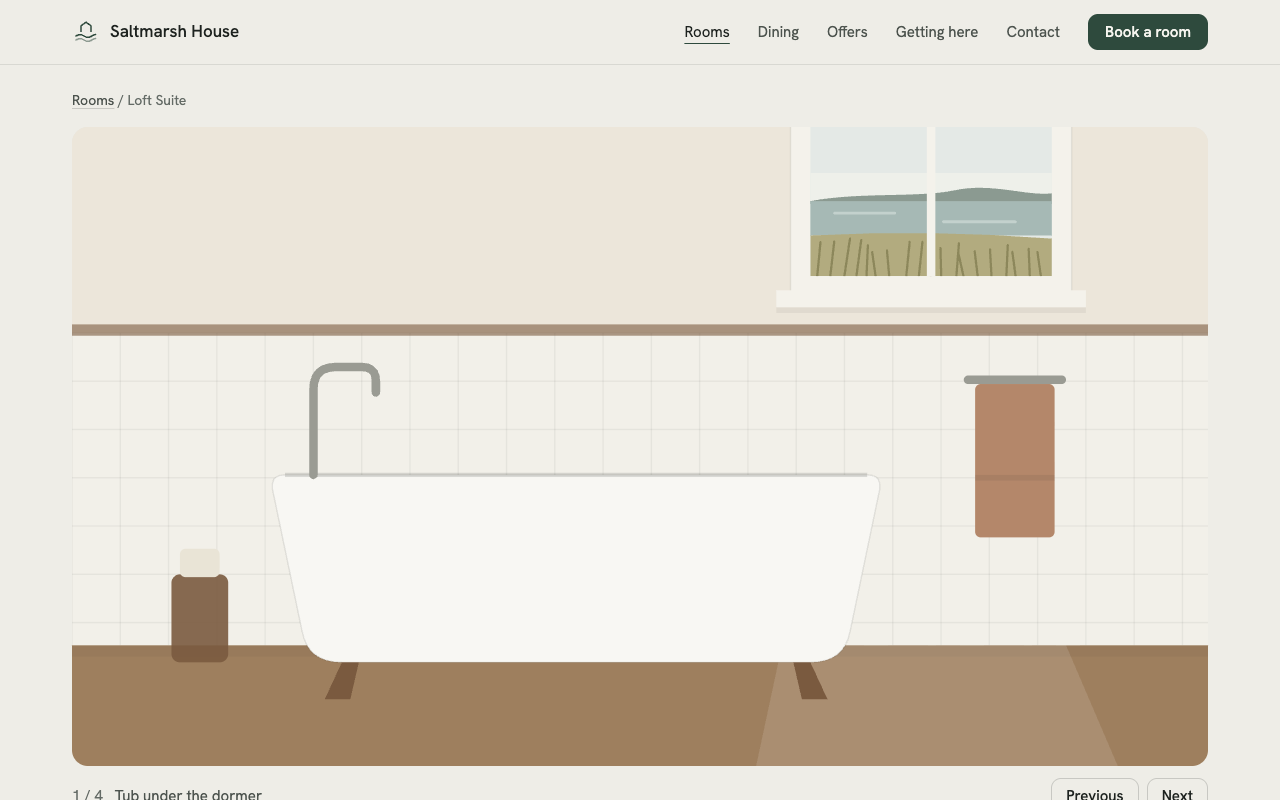
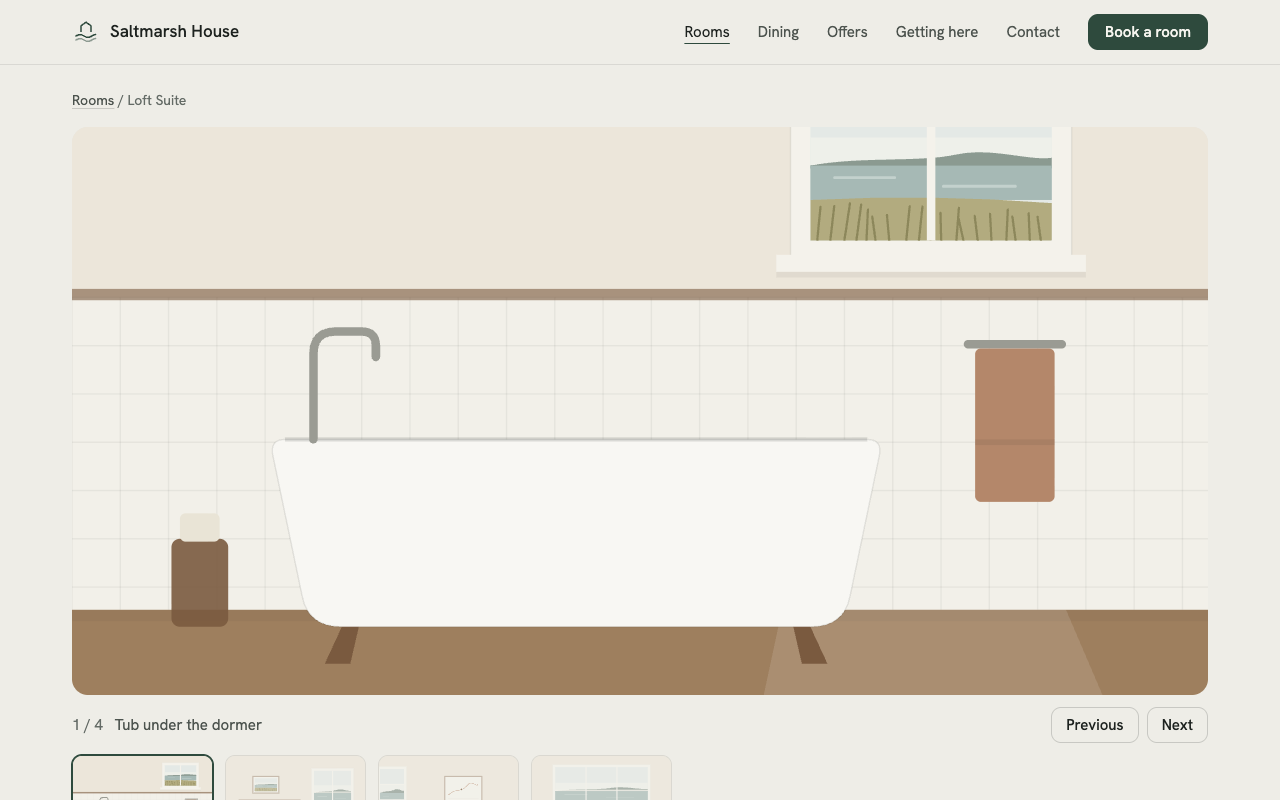
Unslop pass: no eyebrow labels or hover scale, varied room cards, key tag only for rooms, opaque header

diff --git a/src/data/site.ts b/src/data/site.ts
@@ -70,7 +70,7 @@ export const site = {
   home: {
     headline: "A quiet house on the tide line",
     intro:
-      "Fourteen rooms in an 1890s boarding house on the Calder marsh. Wide windows, cotton sheets, a dining room that keeps the fire going from October, and a dock where the tide does most of the scheduling.",
+      "Fourteen rooms in an 1890s boarding house on the Calder marsh, with wide windows over the reeds, a dining room with a wood grill, and a dock where the tide does the scheduling.",
     arrival: {
       title: "Arriving",
       text: [

diff --git a/src/styles/global.css b/src/styles/global.css
@@ -111,12 +111,6 @@ p {
   padding: clamp(64px, 9vw, 112px) 0;
 }
 
-.label {
-  font-size: 14px;
-  color: var(--muted);
-  margin-bottom: 12px;
-}
-
 .lede {
   font-size: clamp(18px, 1.6vw, 20px);
   line-height: 1.55;

diff --git a/UNSLOP.md b/UNSLOP.md
@@ -1,0 +1,39 @@
+# Unslop pass
+
+Done with the unslop skill (unslop by Damir Sokolovsky, @heydamir, CC BY 4.0) on November 25, 2026.
+
+## Audit
+
+Light slop: built with its own palette, type and drawn scenes, so this was polish mode. Signs found:
+
+- `hover:scale` on every room card picture (`RoomCard.astro`)
+- Small muted eyebrow labels stacked above section headings on the home page ("Dining", "Getting here") (`index.astro`, `.label` in `global.css`)
+- Every room card opened on the same bed view, so the rooms grid read as equal repeated cards (`site.ts` gallery order)
+- The key tag (our signature) reused as a badge for offer codes, diluting it (`offers.astro`)
+- A "Newsletter" footer link that only led to the contact page, a feature the site doesn't have (`site.ts`)
+- Hero intro running four long lines with a list of selling points (`site.ts`)
+- Translucent sticky header letting the gallery show through behind the navigation (`Header.astro`)
+- Uneven padding on the home offers list (24 top, 8 bottom)
+
+No gradients on chrome, glows, gradient text, emoji, pill badges, uppercase tracked labels, 700+ weights, italic emphasis, trailing periods, looping motion or `transition-all` were found.
+
+## Direction
+
+- Product: a fourteen-room hotel on a tidal marsh in Maine, for guests choosing a room and dates, and diners booking the Long Room
+- Character: unhurried, salt-weathered, plainspoken
+- World: sea fog, kelp, clapboard and reeds at low tide; fog-tinted neutrals, kelp green as the one accent
+- Moments: the drawn house on the marsh in the hero, and each room's drawn interior gallery with the marsh outside the window
+- Signature: the room key tag (a rounded fob with a hole and the room number), used only where a room is named
+
+## Changes
+
+- Spacing: offers list padding evened to 24 on every side; booking widget, cards and forms on the 4px scale
+- Color: header made opaque fog so nothing shows through; kelp stays on primary buttons, the current thumb and links only
+- Copy: hero intro cut to one sentence of facts already on the page; "Dining" eyebrow folded into the heading ("Dinner in The Long Room"); "Getting here" eyebrow removed; the Newsletter link removed
+- Type: no change needed (Libre Caslon Display only for large headlines, Hanken Grotesk at 400 and 500, tabular figures for rates, times and facts)
+- Layout: room cards now open on different views (Loft Suite on its tub, the Boathouse on its dock), so the grid has variety without decoration
+- Details: offer codes are plain code text, so the key tag only marks rooms
+- Motion: hover scale removed from cards; only color and border transitions remain, with a small press scale on buttons
+
+screenshot-2: Loft Suite room page with its picture gallery
+screenshot-3: Harbor Room details with specs, amenities, rate and the booking widget
